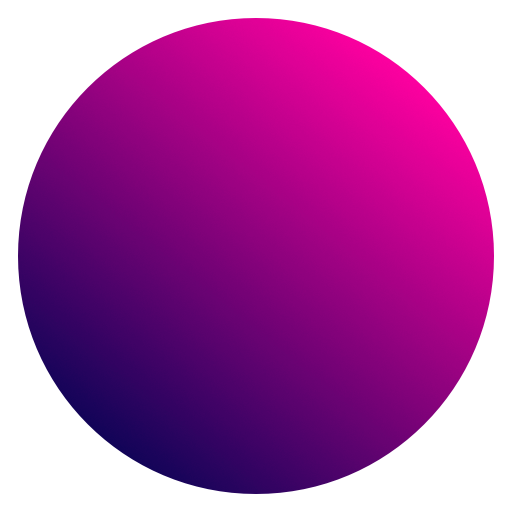
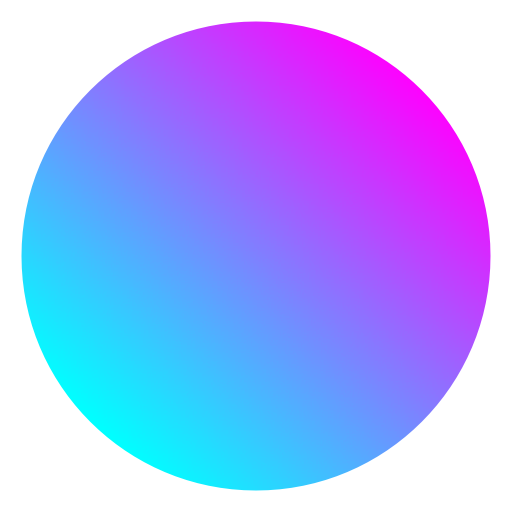
updated layout
only a simple start page

diff --git a/layouts/default.vue b/layouts/default.vue
@@ -6,82 +6,85 @@
 
 <style>
 :root {
-  --background: #282a36;
-  --foreground: #f8f8f2;
-  --yellow: #f1fa8c;
-  --orange: #ffb86c;
-  --comment: #6272a4;
-  --red: #ff5555;
+  --background: rgba(5,5,5,1);
+  --gray: rgba(24,26,27,1);
+  --foreground: rgba(255,255,255,1);
+  --primary: rgba(0,255,255,1);
+  --secondary: rgba(255,0,255,1);
 }
 
 body {
   background-color: var(--background);
   color: var(--foreground);
-  font-family:
-    SFMono-Regular,
-    Menlo,
-    Monaco,
-    Consolas,
-    "Liberation Mono",
-    "Courier New",
-    monospace;
-  font-size: 1.2rem;
-  -webkit-font-smoothing: antialiased;
-  -moz-osx-font-smoothing: grayscale;
-  text-rendering: optimizeLegibility;
+  font-family: -apple-system, BlinkMacSystemFont, "Segoe UI", Roboto, Helvetica, Arial, sans-serif, "Apple Color Emoji", "Segoe UI Emoji", "Segoe UI Symbol";
 }
 
 /* TYPO */
 h1, h2, h3 {
-  color: var(--orange);
-  font-size: 1.2rem;
-  font-weight: 300;
+  background: linear-gradient(90deg, var(--secondary), var(--primary));
+  background-clip: text;
   margin: 0;
+  display: inline-block;
+  -webkit-text-fill-color: transparent;
+}
+
+h1 {
+  font-size: 4rem;
+}
+h2 {
+  font-size: 3rem;
+}
+h3 {
+  font-size: 2rem;
 }
 
 h1:before,
 h2:before,
 h3:before,
 li {
+  color: var(--primary);
   display: inline-block;
   padding-right: 1rem;
 }
 
-h1:before {
-  content: '# ';
-}
-
-h2:before {
-  content: '## ';
-}
-
-h3:before {
-  content: '### ';
-}
-
 a {
-  color: var(--yellow);
-  text-decoration: none;;
-}
-a:hover {
-  text-decoration: underline;
+  color: var(--primary);
+  display: inline-block;
+  text-decoration: none;
 }
 
-p,
-ul,
-ol,
-li  {
-  margin: 0;
-  padding: 0;
+ul {
+  padding-left: 0;
+}
+
+li {
+  list-style: none;
 }
 
 li:before {
-  color: var(--red);
+  color: var(--primary);
   content: '- ';
 }
 
-/* Styling classes */
-.comment {
-  color: var(--comment);
+hr {
+  border-bottom: 1px solid;
+  border-image: linear-gradient(90deg, var(--secondary), var(--primary));
+  border-image-slice: 1;
+  margin: 3rem 0;
+}
+
+/* style classes */
+.badge {
+  background: var(--secondary);
+  border-radius: 4px;
+  color: var(--foreground);
+  display: inline-block;
+  margin: .2rem 0;
+  padding: 2px 6px;
+  text-transform: lowercase;
+}
+.badge:hover {
+  background: var(--primary);
+  color: var(--background);
 }
 </style>

diff --git a/components/Post/List.vue b/components/Post/List.vue
@@ -1,0 +1,64 @@
+<template>
+  <div class="posts">
+    <div class="post">
+      <img src="https://images.unsplash.com/photo-1603302576837-37561b2e2302?ixid=MnwxMjA3fDB8MHxwaG90by1wYWdlfHx8fGVufDB8fHx8&ixlib=rb-1.2.1&auto=format&fit=crop&w=1348&q=80" alt="" />
+      <div class="post-text">
+        <h3>Ein sehr intressanter Page Title</h3>
+        <p>
+          Lorem ipsum dolor sit amet, consectetuer adipiscing elit. Aenean commodo ligula eget dolor. Aenean massa. Cum sociis natoque penatibus et magnis dis p
+        </p>
+      </div>
+    </div>
+
+    <div class="post">
+      <img src="https://images.unsplash.com/photo-1606639386779-99d873cac706?ixid=MnwxMjA3fDB8MHxwaG90by1wYWdlfHx8fGVufDB8fHx8&ixlib=rb-1.2.1&auto=format&fit=crop&w=1350&q=80" alt="" />
+      <div class="post-text">
+        <h3>Ein sehr intressanter Page Title</h3>
+        <p>
+          Lorem ipsum dolor sit amet, consectetuer adipiscing elit. Aenean commodo ligula eget dolor. Aenean massa. Cum sociis natoque penatibus et magnis dis p <a href="#">[mehr]</a>
+        </p>
+      </div>
+    </div>
+  </div>
+</template>
+
+<style scoped>
+.posts {
+  display: grid;
+  grid-gap: 3rem 5rem;
+}
+
+@media (min-width: 600px) {
+  .posts {
+    grid-template-columns: repeat(2, 1fr);
+  }
+}
+
+@media (min-width: 1000px) {
+  .posts {
+    grid-template-columns: repeat(3, 1fr);
+  }
+}
+
+.post {
+  background-color: var(--gray);
+  border: 2px solid;
+  border-image: linear-gradient(135deg, var(--secondary), var(--primary));
+  border-image-slice: 1;
+}
+
+.post h3 {
+  box-shadow: 0 0 1pxx var(--gray);
+  margin-top: -54px;
+}
+
+.post-text {
+  padding: 1rem;
+}
+
+.post img {
+  aspect-ratio: 16 / 9;
+  object-fit: cover;
+  width: 100%;
+}
+</style>

diff --git a/pages/index.vue b/pages/index.vue
@@ -1,35 +1,15 @@
 <template>
   <div>
-      <h1>Moin</h1>
+      <h1>Moin. Stephan hier.</h1>
       <p>
-        Stephan Plöhn ist Vater, Web Developer, etwas DevOps und Gamer.<br><br>
+        Stephan Pl&ouml;hn ist Vater, Web Developer und Gamer.<br>
       </p>
-      <h2>Kontakt</h2>
-      <ul>
-        <li>
-          <a href="mailto:hallo@dorban.de">hallo @ dorban . de</a>
-          <span class="comment">// E-Mail</span>
-        </li>
-        <li>
-          <a href="https://t.me/dorban" rel="nofollow noopener">
-            Telegram
-          </a>
-        </li>
-      </ul>
-      <br>
-      <h2>Profile</h2>
-      <ul>
-        <li>
-          <a href="https://github.com/dorb4n" rel="nofollow noopener">Github</a>
-        </li>
-        <li>
-          <a href="https://steamcommunity.com/id/dorban_os/" rel="nofollow noopener">Steam</a>
-        </li>
-        <li>
-          <a href="https://foerdeliebe.com">
-            foerdeliebe
-          </a>
-        </li>
-      </ul>
+      <p>
+        <a class="badge" href="mailto:hallo@dorban.de">Mail</a>
+        <a class="badge" href="https://github.com/dorb4n" rel="nofollow noopener">Github</a>
+        <a class="badge" href="https://www.linkedin.com/in/stephan-plöhn-b00a75211/">LinkedIn</a>
+        <a class="badge" href="https://steamcommunity.com/id/dorban_os/" rel="nofollow noopener">Steam</a>
+        <a class="badge" href="https://foerdeliebe.com">foerdeliebe</a>
+      </p>
   </div>
 </template>

diff --git a/nuxt.config.js b/nuxt.config.js
@@ -9,7 +9,7 @@ export default {
           lang: 'de'
       },
       link: [
-          { rel: 'icon', type: 'image/x-icon', href: '/favicon.ico' }
+          { rel: 'icon', type: 'image/png', href: '/favicon.png' }
       ],
   },
 
@@ -45,17 +45,16 @@ export default {
   // PWA Configuration: https://pwa.nuxtjs.org
   pwa: {
       meta: {
-          theme_color: '#ffffff', // TODO
+          theme_color: '#050505', // TODO
           lang: 'de',
           ogHost: 'https://dorban.de',
       },
       manifest: {
-          background_color: '#ffffff', // TODO
+          background_color: '#050505',
           display: 'standalone',
           lang: 'de',
           name: 'dorban',
           short_name: 'dorban',
-          theme_color: '#ffffff', // TODO
       }
   },
 }
